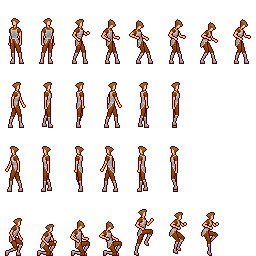
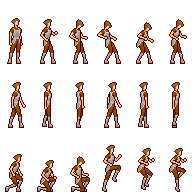
Last character animation refactor

diff --git a/js/character.js b/js/character.js
@@ -6,10 +6,9 @@ define(['waterTool'], function(WaterTool) {
       this.waterTool = new WaterTool();
 
       //  Add animation sets
-      this.renderable.addAnimation('anStill', [0, 1, 2, 3, 4, 5, 6, 7]);
-      this.renderable.addAnimation('anRight', [8, 9, 10, 11, 12, 13]);
-      //this.renderable.addAnimation('anLeft', [16, 17, 18, 19, 20, 21]);
-      this.renderable.addAnimation('anJump', [24, 25, 25, 26, 27, 28, 29, 30]);
+      this.renderable.addAnimation('anStill', [0, 0, 0, 0, 0, 0, 0, 0, 0, 0, 0, 1, 2, 3, 4, 5]);
+      this.renderable.addAnimation('anRight', [6, 7, 8, 9, 10, 11]);
+      this.renderable.addAnimation('anJump', [12, 13, 14, 15, 16, 17]);
         
       this.direction = 'right';
 
